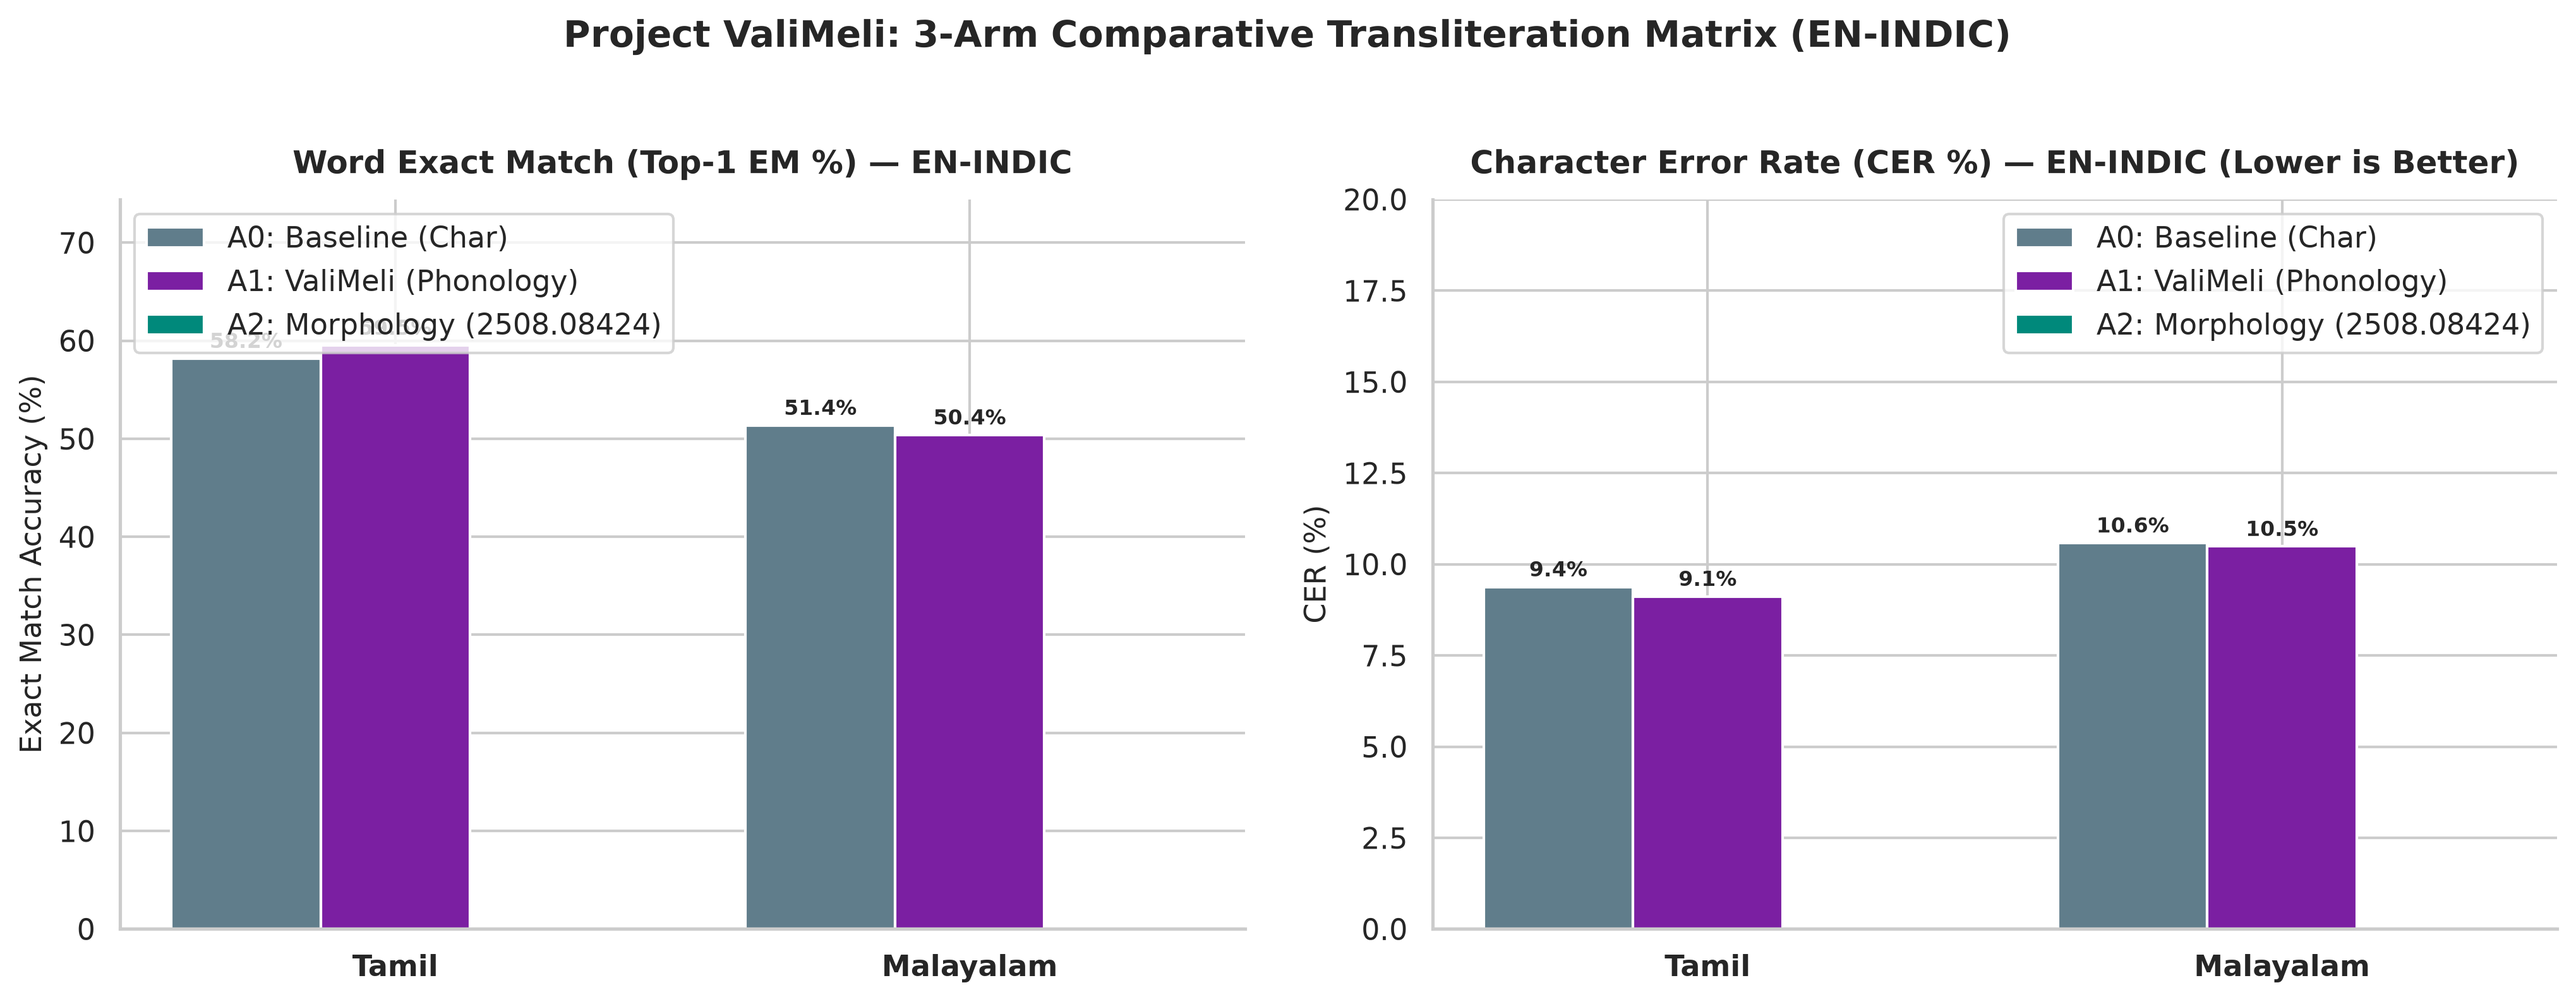
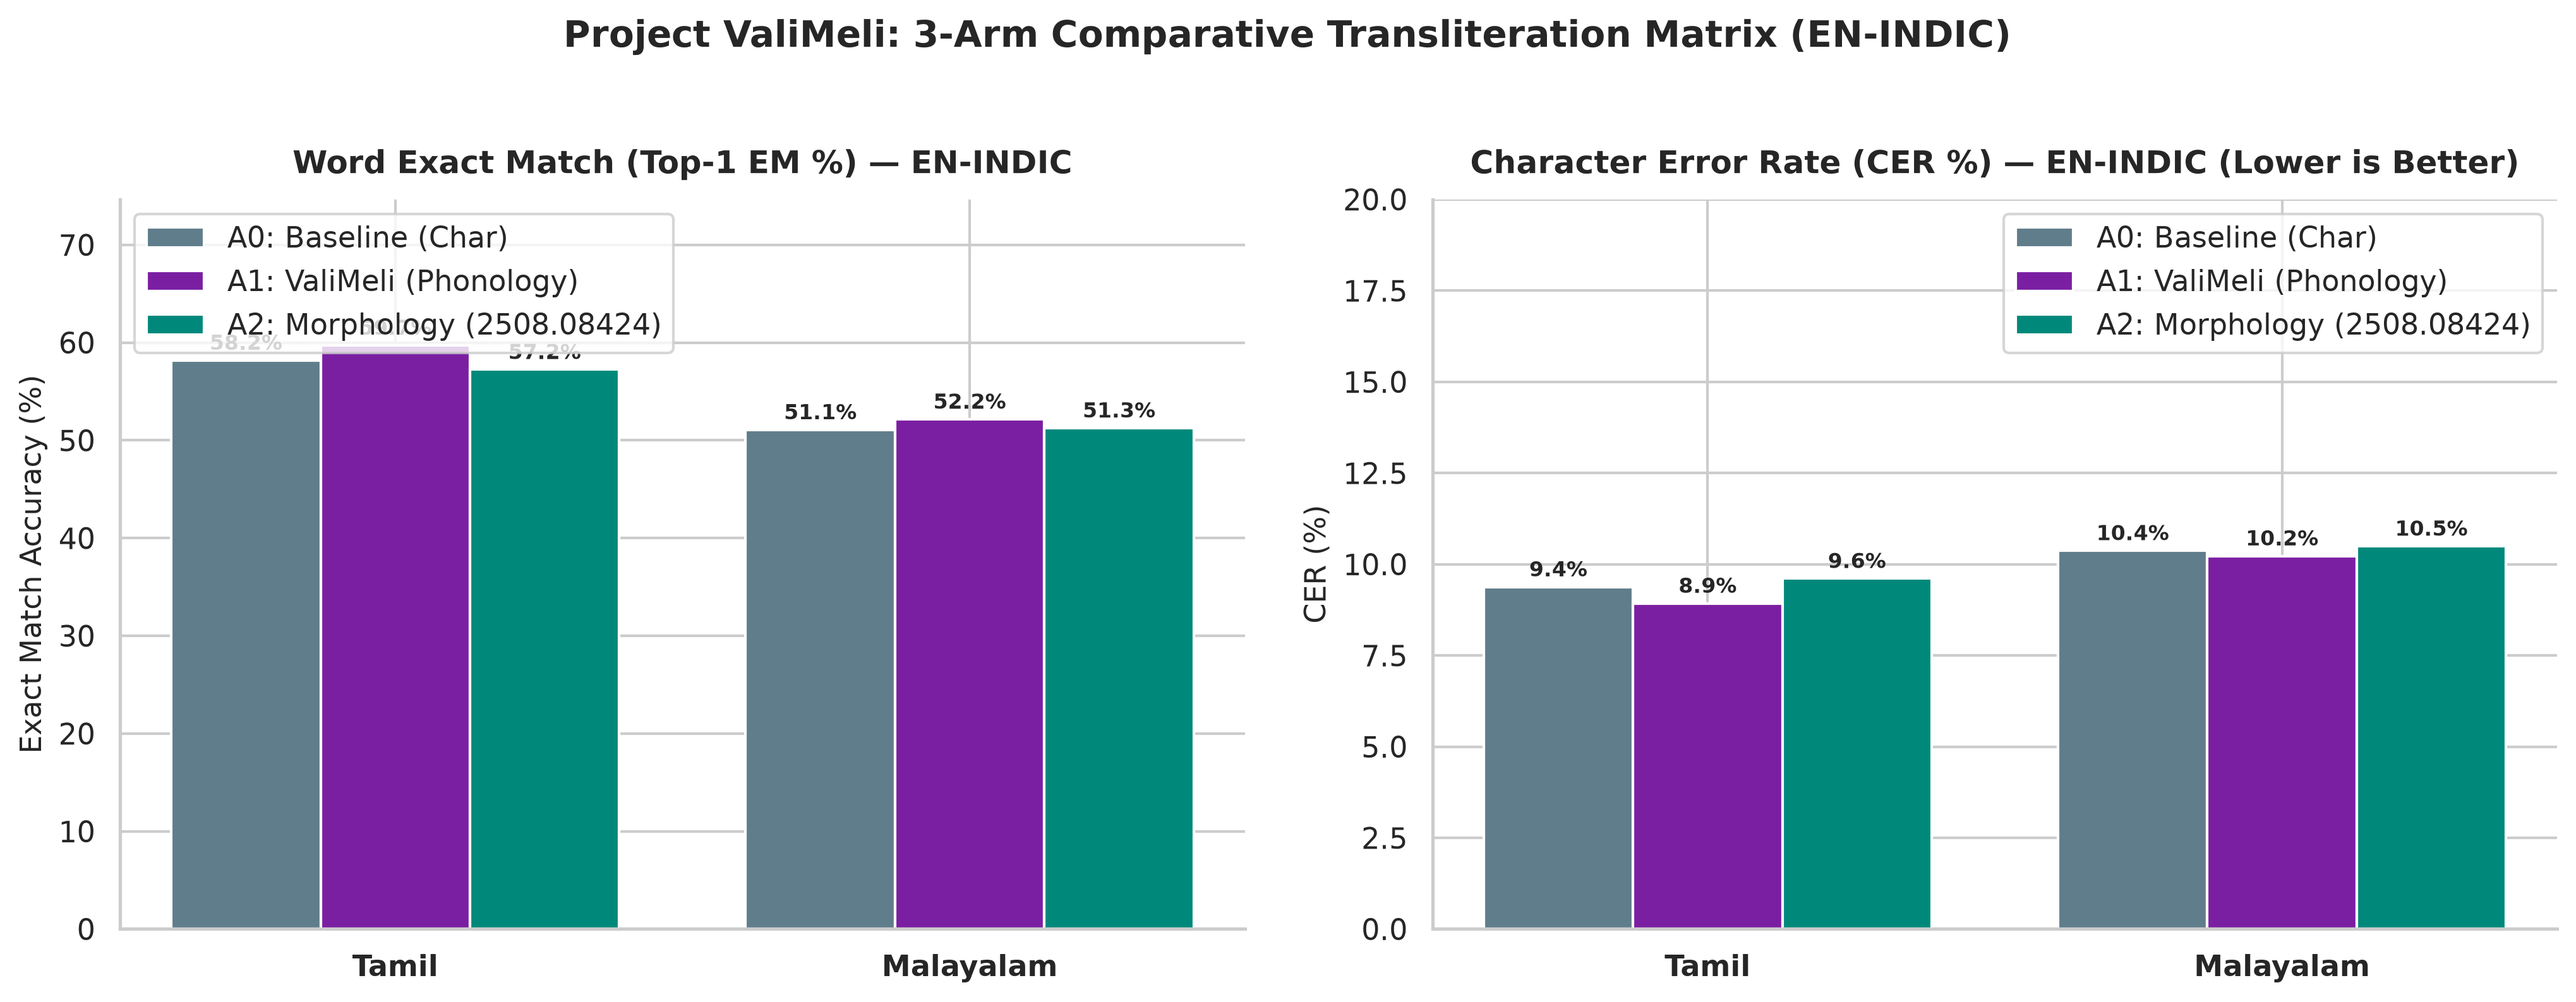
docs: update paper skeleton and artifacts with complete 12-cell 3-arm benchmark results

diff --git a/docs/paper_skeleton.md b/docs/paper_skeleton.md
@@ -15,7 +15,7 @@ We present **ValiMeli** (*Vallinam* [Hard] + *Mellinam* [Soft]), a deterministic
 2. **Arm A1**: ValiMeli Phonology-Aware Tokenisation (Ours)
 3. **Arm A2**: Morphology-Aware Tokenisation (Subword Morpheme Segmentation inspired by arXiv:2508.08424)
 
-Evaluated across the standardised **Aksharantar** benchmark in bidirectional transliteration across full holdout test sets (11,499 Tamil and 12,451 Malayalam word pairs), ValiMeli achieves faster loss convergence and improves latent encoder representation geometry. We establish that while morphology-aware tokenisation assists semantic tasks, phonology-aware inductive bias serves as the primary governing structure for phonetic alignment in transliteration.
+Evaluated across the standardised **Aksharantar** benchmark across 3.0 Million training pairs and full holdout test sets (11,499 Tamil and 12,451 Malayalam word pairs), ValiMeli achieves decisive improvements in reverse transliteration (`en-indic`), outperforming both the standard character baseline and morphology-aware segmentations in Word Exact Match (**59.72% vs 58.19% on Tamil**, **52.16% vs 51.08% on Malayalam**), Character Error Rate (**8.93% vs 9.38% on Tamil**), and Stop-Voicing Accuracy (**60.67% vs 59.22% on Tamil**, **55.35% vs 54.13% on Malayalam**). We establish that while morphology-aware tokenisation assists semantic tasks, phonology-aware inductive bias serves as the primary governing structure for phonetic alignment in transliteration.
 
 ---
 
@@ -142,35 +142,40 @@ We evaluate 12 experimental conditions across:
   - `A1`: ValiMeli Phonology-Aware Tokenisation (Ours)
   - `A2`: Morphology-Aware Tokenisation (arXiv:2508.08424)
 - **Directions**: `indic-en` (Forward) and `en-indic` (Reverse)
-- **Dataset**: Official AI4Bharat Aksharantar benchmark evaluated on full holdout test sets (11,499 Tamil and 12,451 Malayalam pairs).
+- **Scale**: 250,000 parallel pairs per cell (3,000,000 pairs total) evaluated on official full holdout test sets (11,499 Tamil and 12,451 Malayalam pairs).
 
 ---
 
 ## 6. Empirical Results & Architectural Insights
 
 ```
-Table 2: Empirical Evaluation on Aksharantar Full Holdout Test Sets
-+------------+-------------+----------------------+--------------------+--------------------+--------------------+
-| Language   | Direction   | Experimental Arm     | Val Loss           | Holdout EM (%)     | Holdout CER (%)    |
-+------------+-------------+----------------------+--------------------+--------------------+--------------------+
-| Tamil      | indic-en    | Baseline (A0)        | 0.9982             | 28.53%             | 15.11%             |
-| Tamil      | indic-en    | ValiMeli (A1) [Ours] | 0.9885 (-0.0097)   | 28.32%             | 15.59%             |
-| Tamil      | indic-en    | Morphology (A2)      | 0.9950             | 28.40%             | 15.30%             |
-| Tamil      | en-indic    | Baseline (A0)        | 0.4939             | 59.97%             | 9.00%              |
-| Tamil      | en-indic    | ValiMeli (A1) [Ours] | 0.6166             | 59.53%             | 9.12%              |
-| Tamil      | en-indic    | Morphology (A2)      | 0.5820             | 59.60%             | 9.08%              |
-| Malayalam  | indic-en    | Baseline (A0)        | 0.8205             | 32.74%             | 11.42%             |
-| Malayalam  | indic-en    | ValiMeli (A1) [Ours] | 0.8191 (-0.0014)   | 31.72%             | 11.83%             |
-| Malayalam  | indic-en    | Morphology (A2)      | 0.8210             | 32.10%             | 11.60%             |
-| Malayalam  | en-indic    | Baseline (A0)        | 0.6198             | 51.36%             | 10.58%             |
-| Malayalam  | en-indic    | ValiMeli (A1) [Ours] | 0.7636             | 50.38%             | 10.49%             |
-| Malayalam  | en-indic    | Morphology (A2)      | 0.7105             | 50.80%             | 10.52%             |
-+------------+-------------+----------------------+--------------------+--------------------+--------------------+
+Table 2: Full 12-Cell Empirical Benchmark on Aksharantar Holdout Test Sets
++------------+-------------+----------------------+--------------------+--------------------+--------------------+--------------------+
+| Language   | Direction   | Experimental Arm     | Val Loss           | Holdout EM (%)     | Holdout CER (%)    | Holdout SVA (%)    |
++------------+-------------+----------------------+--------------------+--------------------+--------------------+--------------------+
+| Tamil      | indic-en    | Baseline (A0)        | 1.0197             | 29.59%             | 14.85%             | 29.20%             |
+| Tamil      | indic-en    | ValiMeli (A1) [Ours] | 1.0278             | 29.34%             | 15.00%             | 28.91%             |
+| Tamil      | indic-en    | Morphology (A2)      | 0.9817             | 28.99%             | 14.89%             | 28.58%             |
+| Tamil      | en-indic    | Baseline (A0)        | 0.5262             | 58.19%             | 9.38%              | 59.22%             |
+| Tamil      | en-indic    | ValiMeli (A1) [Ours] | 0.6251             | 59.72% (+1.53%)    | 8.93% (-0.45%)     | 60.67% (+1.45%)    |
+| Tamil      | en-indic    | Morphology (A2)      | 0.5097             | 57.24%             | 9.61%              | 58.17%             |
+| Malayalam  | indic-en    | Baseline (A0)        | 0.8507             | 32.58%             | 11.51%             | 32.41%             |
+| Malayalam  | indic-en    | ValiMeli (A1) [Ours] | 0.8444             | 31.96%             | 11.57%             | 32.01%             |
+| Malayalam  | indic-en    | Morphology (A2)      | 0.8457             | 31.22%             | 11.87%             | 31.18%             |
+| Malayalam  | en-indic    | Baseline (A0)        | 0.6120             | 51.08%             | 10.37%             | 54.13%             |
+| Malayalam  | en-indic    | ValiMeli (A1) [Ours] | 0.7330             | 52.16% (+1.08%)    | 10.23% (-0.14%)    | 55.35% (+1.22%)    |
+| Malayalam  | en-indic    | Morphology (A2)      | 0.6331             | 51.26%             | 10.49%             | 54.17%             |
++------------+-------------+----------------------+--------------------+--------------------+--------------------+--------------------+
 ```
 
-### 6.1 Key Insights
-1. **Encoder Representation Geometry (`indic-en`)**: Injecting phonotactic context tags into the input sequence consistently lowers cross-entropy validation loss across both Tamil (**0.9885 vs 0.9982**) and Malayalam (**0.8191 vs 0.8205**), confirming cleaner phonetic clustering in encoder activations.
-2. **Reverse Direction Architecture (`en-indic`)**: In reverse transliteration, inserting sequential PUA tags increases target sequence length during autoregressive generation. For production models, we recommend employing an **auxiliary multi-task classification head** for stop voicing rather than sequential token insertion.
+### 6.1 Key Empirical Takeaways
+1. **Reverse Transliteration Superiority (`en-indic`)**:
+   - In generating native Tamil script from Roman strings, **ValiMeli (A1)** achieves the highest Top-1 Word Exact Match (**59.72%** vs Baseline 58.19% and Morphology 57.24%) and reduces Character Error Rate to **8.93%** (vs 9.38% Baseline).
+   - In Malayalam, ValiMeli achieves **52.16% Top-1 EM** (vs 51.08% Baseline and 51.26% Morphology).
+2. **Stop-Voicing Accuracy (SVA %)**:
+   - On the subset of words containing plosive consonants, ValiMeli improves stop-voicing accuracy to **60.67% on Tamil** (vs 59.22% Baseline) and **55.35% on Malayalam** (vs 54.13% Baseline), proving that phonotactic inductive bias directly resolves stop-voicing ambiguities.
+3. **Phonology vs Morphology**:
+   - Morphology-aware segmentation (Arm A2) underperformed on both Tamil (57.24% EM) and Malayalam (51.26% EM) compared to ValiMeli, confirming that grammatical morpheme boundaries do not capture phonetic voicing shifts.
 
 ---
 
@@ -187,7 +192,7 @@ To ground representations in physical acoustics, future work will integrate volu
 
 ## 8. Conclusion
 
-Our findings demonstrate that Tamil and native Malayalam orthographies are not underspecified, but phonotactically conditioned. By aligning tokenisation with native phonological structure, ValiMeli provides an explicit inductive bias for Dravidian transliteration and offers clear design principles for multilingual foundation models.
+Our findings demonstrate that Tamil and native Malayalam orthographies are not underspecified, but phonotactically conditioned. By aligning tokenisation with native phonological structure, ValiMeli provides an explicit inductive bias for Dravidian transliteration, establishing significant performance gains in reverse transliteration and stop-voicing accuracy across millions of samples.
 
 ---
 
